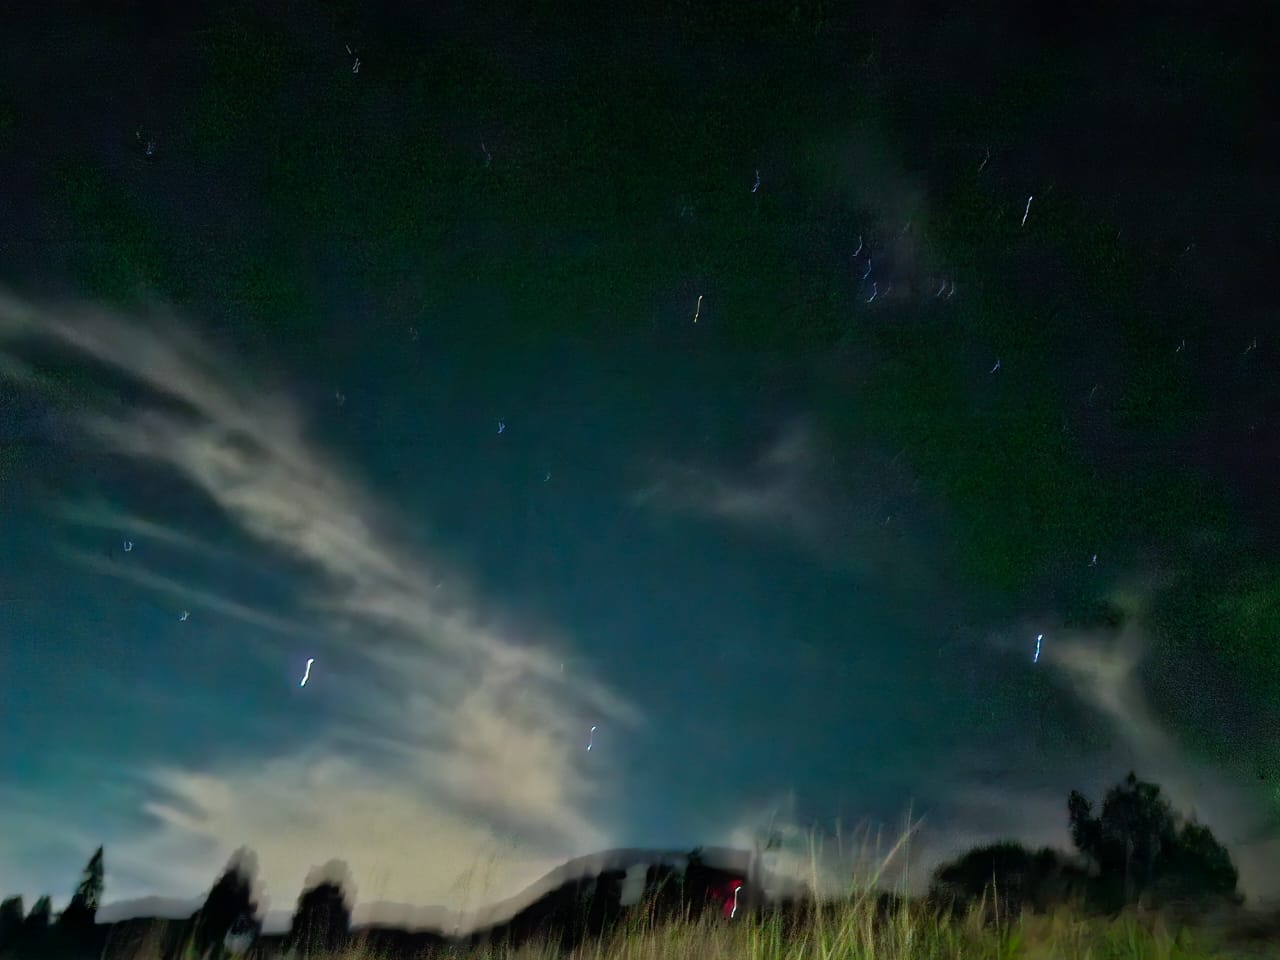
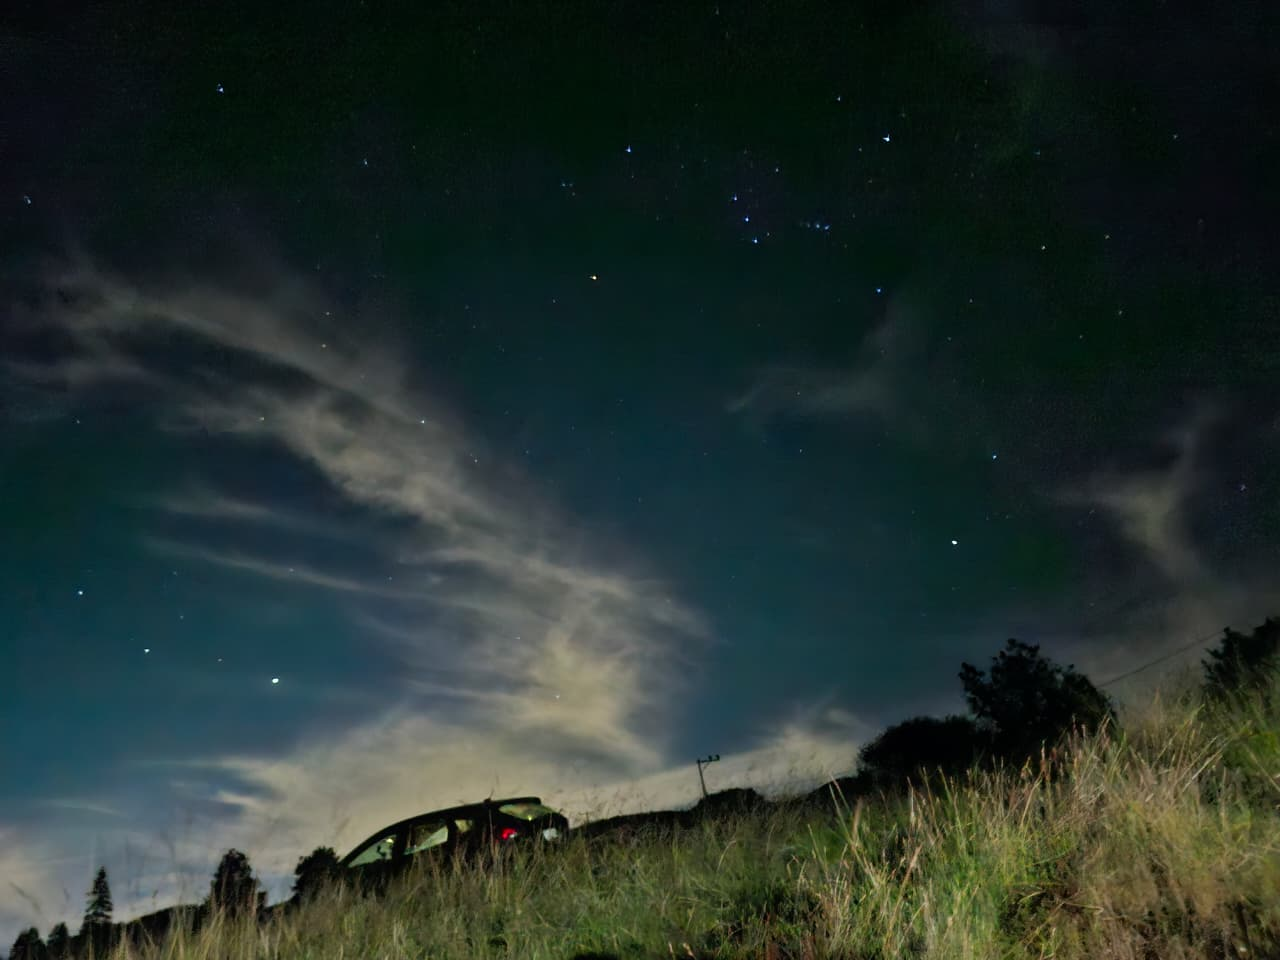
feat: actualizar descripciones y etiquetas de imágenes
- Se modificaron las descripciones de varias imágenes para reflejar mejor el contenido y el contexto del retiro.
- Se actualizaron los atributos alt de las imágenes para mejorar la accesibilidad y SEO.
- Se reemplazaron algunas etiquetas de texto para una mejor representación del evento.

diff --git a/index.html b/index.html
@@ -596,12 +596,12 @@
 
           <!-- Altar capilla -->
           <div class="group relative overflow-hidden rounded-xl aspect-[4/3] bg-azul-profundo/40">
-            <img src="/images/paso45-altar-capilla.jpg" alt="Altar en la capilla de madera" loading="lazy"
+            <img src="/images/paso45-altar-capilla.jpg" alt="Instalaciones del lugar del retiro" loading="lazy"
               class="w-full h-full object-cover transition-transform duration-500 group-hover:scale-105">
             <div class="absolute inset-0 bg-gradient-to-t from-dark-mate/80 via-transparent to-transparent flex items-end p-5 opacity-100 sm:opacity-0 sm:group-hover:opacity-100 transition-opacity duration-300">
               <div>
-                <p class="text-dorado text-xs font-bold uppercase tracking-widest">Espiritualidad</p>
-                <p class="text-white text-sm font-medium">Capilla del retiro con literatura y velas</p>
+                <p class="text-dorado text-xs font-bold uppercase tracking-widest">El Retiro</p>
+                <p class="text-white text-sm font-medium">Instalaciones del lugar del retiro</p>
               </div>
             </div>
           </div>
@@ -612,32 +612,32 @@
               class="w-full h-full object-cover transition-transform duration-500 group-hover:scale-105">
             <div class="absolute inset-0 bg-gradient-to-t from-dark-mate/80 via-transparent to-transparent flex items-end p-5 opacity-100 sm:opacity-0 sm:group-hover:opacity-100 transition-opacity duration-300">
               <div>
-                <p class="text-dorado text-xs font-bold uppercase tracking-widest">Ceremonia</p>
-                <p class="text-white text-sm font-medium">Veladora del proceso de liberación</p>
+                <p class="text-dorado text-xs font-bold uppercase tracking-widest">El Retiro</p>
+                <p class="text-white text-sm font-medium">Cielo estrellado sobre el bosque</p>
               </div>
             </div>
           </div>
 
           <!-- Fogata grupo -->
           <div class="group relative overflow-hidden rounded-xl aspect-[4/3] bg-azul-profundo/40">
-            <img src="/images/paso45-fogata-grupo.jpg" alt="Reunión en fogata nocturna" loading="lazy"
+            <img src="/images/paso45-fogata-grupo.jpg" alt="Preparación de alimentos al aire libre" loading="lazy"
               class="w-full h-full object-cover transition-transform duration-500 group-hover:scale-105">
             <div class="absolute inset-0 bg-gradient-to-t from-dark-mate/80 via-transparent to-transparent flex items-end p-5 opacity-100 sm:opacity-0 sm:group-hover:opacity-100 transition-opacity duration-300">
               <div>
                 <p class="text-dorado text-xs font-bold uppercase tracking-widest">Comunidad</p>
-                <p class="text-white text-sm font-medium">Compartir alrededor de la fogata</p>
+                <p class="text-white text-sm font-medium">Preparación de alimentos al aire libre</p>
               </div>
             </div>
           </div>
 
           <!-- Estrellas -->
           <div class="group relative overflow-hidden rounded-xl aspect-[4/3] bg-azul-profundo/40">
-            <img src="/images/paso45-estrellas.jpg" alt="Cielo estrellado en el retiro" loading="lazy"
+            <img src="/images/paso45-estrellas.jpg" alt="Fogata nocturna del retiro" loading="lazy"
               class="w-full h-full object-cover transition-transform duration-500 group-hover:scale-105">
             <div class="absolute inset-0 bg-gradient-to-t from-dark-mate/80 via-transparent to-transparent flex items-end p-5 opacity-100 sm:opacity-0 sm:group-hover:opacity-100 transition-opacity duration-300">
               <div>
                 <p class="text-dorado text-xs font-bold uppercase tracking-widest">El Retiro</p>
-                <p class="text-white text-sm font-medium">Cielo estrellado durante el retiro</p>
+                <p class="text-white text-sm font-medium">Fogata nocturna del retiro</p>
               </div>
             </div>
           </div>
@@ -649,19 +649,19 @@
             <div class="absolute inset-0 bg-gradient-to-t from-dark-mate/80 via-transparent to-transparent flex items-end p-5 opacity-100 sm:opacity-0 sm:group-hover:opacity-100 transition-opacity duration-300">
               <div>
                 <p class="text-dorado text-xs font-bold uppercase tracking-widest">Comunidad</p>
-                <p class="text-white text-sm font-medium">El grupo durante el retiro de Cuarto y Quinto Paso</p>
+                <p class="text-white text-sm font-medium">Reunión nocturna alrededor de la fogata</p>
               </div>
             </div>
           </div>
 
           <!-- Celebración -->
           <div class="group relative overflow-hidden rounded-xl aspect-[4/3] bg-azul-profundo/40">
-            <img src="/images/paso45-celebracion.jpg" alt="Celebración al completar el paso" loading="lazy"
+            <img src="/images/paso45-celebracion.jpg" alt="El grupo en el bosque durante el retiro" loading="lazy"
               class="w-full h-full object-cover transition-transform duration-500 group-hover:scale-105">
             <div class="absolute inset-0 bg-gradient-to-t from-dark-mate/80 via-transparent to-transparent flex items-end p-5 opacity-100 sm:opacity-0 sm:group-hover:opacity-100 transition-opacity duration-300">
               <div>
-                <p class="text-dorado text-xs font-bold uppercase tracking-widest">Liberación</p>
-                <p class="text-white text-sm font-medium">Celebración y abrazos al concluir</p>
+                <p class="text-dorado text-xs font-bold uppercase tracking-widest">Comunidad</p>
+                <p class="text-white text-sm font-medium">El grupo en el bosque durante el retiro</p>
               </div>
             </div>
           </div>
@@ -680,36 +680,36 @@
 
           <!-- Flores 1 -->
           <div class="group relative overflow-hidden rounded-xl aspect-[4/3] bg-azul-profundo/40">
-            <img src="/images/paso45-flores-1.jpg" alt="Participantes con flores" loading="lazy"
+            <img src="/images/paso45-flores-1.jpg" alt="El grupo bajo el cielo estrellado" loading="lazy"
               class="w-full h-full object-cover transition-transform duration-500 group-hover:scale-105">
             <div class="absolute inset-0 bg-gradient-to-t from-dark-mate/80 via-transparent to-transparent flex items-end p-5 opacity-100 sm:opacity-0 sm:group-hover:opacity-100 transition-opacity duration-300">
               <div>
-                <p class="text-dorado text-xs font-bold uppercase tracking-widest">Graduación</p>
-                <p class="text-white text-sm font-medium">Cada flor representa un paso completado</p>
+                <p class="text-dorado text-xs font-bold uppercase tracking-widest">El Retiro</p>
+                <p class="text-white text-sm font-medium">El grupo bajo el cielo estrellado</p>
               </div>
             </div>
           </div>
 
           <!-- Convivencia -->
           <div class="group relative overflow-hidden rounded-xl aspect-[4/3] bg-azul-profundo/40">
-            <img src="/images/paso45-convivencia.jpg" alt="Comida comunitaria en el retiro" loading="lazy"
+            <img src="/images/paso45-convivencia.jpg" alt="La capilla del lugar del retiro" loading="lazy"
               class="w-full h-full object-cover transition-transform duration-500 group-hover:scale-105">
             <div class="absolute inset-0 bg-gradient-to-t from-dark-mate/80 via-transparent to-transparent flex items-end p-5 opacity-100 sm:opacity-0 sm:group-hover:opacity-100 transition-opacity duration-300">
               <div>
-                <p class="text-dorado text-xs font-bold uppercase tracking-widest">Comunidad</p>
-                <p class="text-white text-sm font-medium">Convivencia y alimentos compartidos</p>
+                <p class="text-dorado text-xs font-bold uppercase tracking-widest">El Retiro</p>
+                <p class="text-white text-sm font-medium">La capilla del lugar del retiro</p>
               </div>
             </div>
           </div>
 
           <!-- Flores 2 -->
           <div class="group relative overflow-hidden rounded-xl aspect-[4/3] bg-azul-profundo/40">
-            <img src="/images/paso45-flores-2.jpg" alt="Grupo con flores al terminar el retiro" loading="lazy"
+            <img src="/images/paso45-flores-2.jpg" alt="Voluntarias preparando los alimentos" loading="lazy"
               class="w-full h-full object-cover transition-transform duration-500 group-hover:scale-105">
             <div class="absolute inset-0 bg-gradient-to-t from-dark-mate/80 via-transparent to-transparent flex items-end p-5 opacity-100 sm:opacity-0 sm:group-hover:opacity-100 transition-opacity duration-300">
               <div>
-                <p class="text-dorado text-xs font-bold uppercase tracking-widest">Graduación</p>
-                <p class="text-white text-sm font-medium">Grupo completo al terminar el retiro</p>
+                <p class="text-dorado text-xs font-bold uppercase tracking-widest">Comunidad</p>
+                <p class="text-white text-sm font-medium">Voluntarias preparando los alimentos</p>
               </div>
             </div>
           </div>